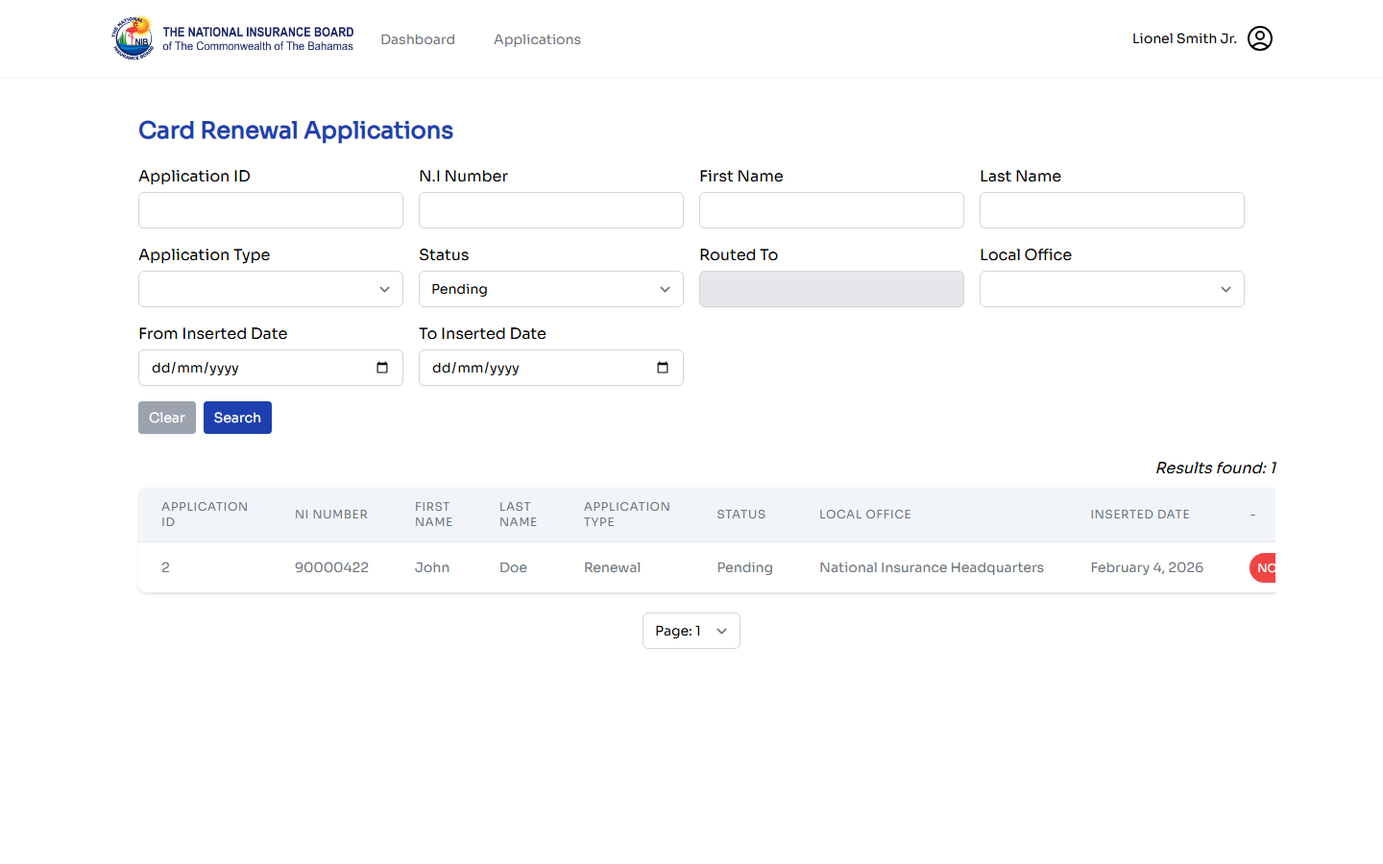
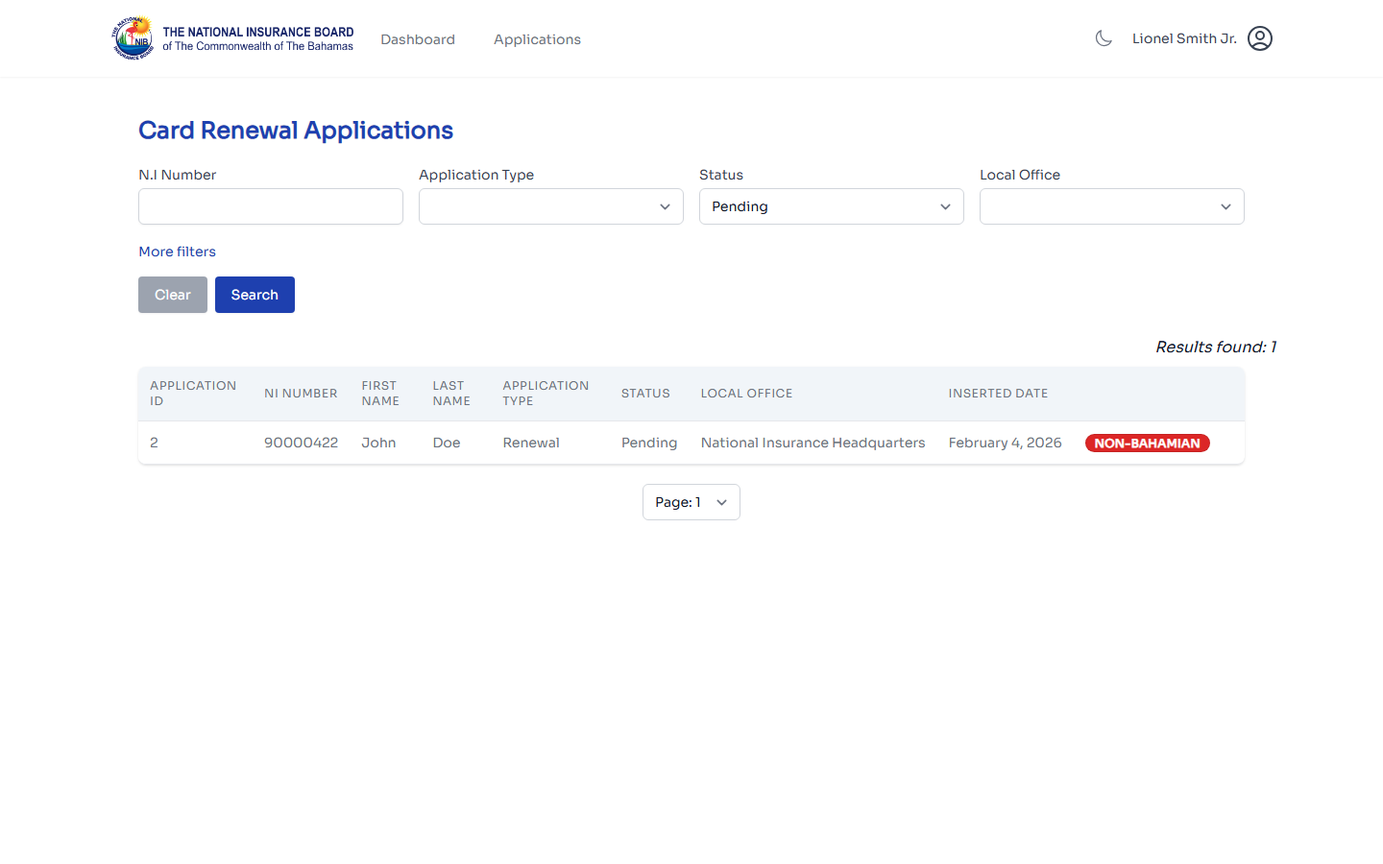
docs(onboarding): correct admin/supervisor manuals + refresh screenshots
Fixes verified against live code: claims status-filter values (Pending/
Approved/Denied only), the real reupload-reason list (no free-text Other),
MED 1 / MED 2 form mapping (was mislabeled 'B81'), SUPERVISOR CS reassign
rights, native confirm() dialogs, and documents the new read-only Payment
card. Strips dev jargon (Oracle table/WeasyPrint/composable names) and
speculative 'coming soon' policy. Refreshes admin walkthrough screenshots
(now include the Payment card). Adds the documentation sweep report.

diff --git a/onboarding/manuals/source/SUPERVISOR-MANUAL.md b/onboarding/manuals/source/SUPERVISOR-MANUAL.md
@@ -29,7 +29,7 @@ This manual covers the supervisor-tier actions on the **Admin Portal** — the w
 - How to **deny** an application with the correct reason
 - How to **reassign** an application from one officer to another
 - How to change the **local office** handling an application
-- How to **generate official forms** (B80, B81, etc.) as PDFs
+- How to **generate official forms** (the MED 1 / MED 2 medical forms and the other benefit forms) as PDFs
 - The complete **role reference** showing which roles can do what
 - How the office-scoping model affects what each role sees
 
@@ -66,10 +66,10 @@ To approve:
 
 1. Open the application detail page from the queue
 2. Confirm the **Routed To** field shows your name
-3. Review all the claimant's details, documents, and contact information one more time
+3. Review all the claimant's details — including the **Payment** section (how and where the benefit will be paid) — plus the documents and contact information one more time
 4. Click the **Approve** button (top right of the detail page)
-5. A confirmation dialog appears asking you to verify the action
-6. Click **Confirm Approval**
+5. A browser confirmation prompt appears ("Are you sure you want to approve this application?")
+6. Click **OK** to confirm
 
 What happens next:
 
@@ -98,9 +98,10 @@ To deny:
 1. Open the application detail page
 2. Confirm Routed To = your name
 3. Click **Deny** (next to the Approve button)
-4. A dialog appears with a **denial reason** dropdown — choose the appropriate reason
-5. Optionally add free-text notes
-6. Click **Confirm Denial**
+4. A menu of **denial reasons** (loaded from the system) appears — click the appropriate reason
+5. A browser confirmation prompt then appears — click **OK** to confirm
+
+> The claims deny flow has no separate free-text notes field; the reason you pick from the menu is what's recorded in the audit log and emailed to the citizen.
 
 What happens next:
 
@@ -111,7 +112,7 @@ What happens next:
 
 ### Denial reasons
 
-Common reasons (the exact list may vary by application type):
+The actual reasons are loaded from the system and vary by application type; you pick one from the menu. Typical examples:
 
 | Reason | When to use |
 |---|---|
@@ -120,14 +121,8 @@ Common reasons (the exact list may vary by application type):
 | Missing or invalid documents | Required documents are still missing or fundamentally wrong (after re-upload attempts) |
 | Duplicate application | This citizen has already submitted (and possibly received) the same benefit |
 | Not currently employed | (Unemployment) Claimant doesn't appear to have ceased employment |
-| Self-employed | (Some benefits) — *as of 2026-Q2, self-employed claimants are soft-denied with instructions to visit their local office for in-person processing. See §3.1.* |
-| Other (with notes) | Specific to the case; explain in the notes field |
-
-### 3.1 Self-employed soft-denial (planned policy)
-
-> **Coming soon (target: mid-2026):** Self-employed claimants will be flagged automatically and shown a special soft-denial message asking them to visit their local NIB office for in-person processing. Until the automation is in place, deny manually with the "Self-employed" reason and add a note pointing them to their local office.
-
-This is being implemented as part of OHSU-led policy alignment. Watch for an internal announcement.
+| Self-employed | (Some benefits) — self-employed claimants may require in-person processing at their local office; confirm current policy with NIB Customer Service before denying on this basis |
+| Other | A reason specific to the case |
 
 ---
 
@@ -153,8 +148,10 @@ What happens:
 If you want to "un-claim" an application (return it to the unrouted pool):
 
 1. Open the application detail page
-2. Click **Remove Assignment** (icon next to the Routed To field)
+2. Click **Remove Assignment** (the icon next to the Routed To field)
 3. Confirm
+
+> The **Remove Assignment** control only appears for **manager-tier (canEdit) roles** and only while the application's status is **Pending**. A non-manager officer who routed an application to themselves will not see it — a department head / manager has to remove the assignment for them.
 
 The application now has no Routed To and any officer in the appropriate scope can claim it via Route To Me.
 
@@ -176,7 +173,7 @@ In practice, that means you can change the local office on a freshly-submitted a
 
 If you find an application that needs to move offices *after* someone has routed it, the workflow is:
 
-1. Ask the current routed-to officer to **Remove Assignment** (un-route it) — or, if you have reassignment rights, do it yourself
+1. A manager-tier (canEdit) user clicks **Remove Assignment** to un-route it (the control isn't available to non-manager officers, so a department head / manager does this)
 2. Once the application is back in the unrouted pool with status Pending, the Local Office dropdown will enable
 3. Choose the correct office and confirm
 4. The application moves to the new office's queue
@@ -198,20 +195,24 @@ Both **claims** and **card** applications have a **Generate Pdf** action on the 
 3. The system automatically produces the appropriate official PDF(s) for that application type — pre-filled with the citizen's submitted data plus reference data from Oracle
 4. The file downloads to your computer
 
-You do **not** choose between B80 / B81 / etc. — the system selects the right form(s) based on the application's type:
+You do **not** choose the form — the system selects the right one based on the application's type:
 
 | Application type | What the PDF contains |
 |---|---|
-| **Unemployment** claim | B80 (Employer's Certificate of Termination) template pre-filled |
-| **Sickness / Maternity** claim | B81 (Medical Certificate) template pre-filled |
-| Other claim types | The form(s) that NIB Customer Service has configured for that benefit type |
+| **Sickness** / **Injury** claim | The **MED 1** form, pre-filled |
+| **Maternity** (and Maternity Extension) claim | The **MED 2** form, pre-filled |
+| **Unemployment** claim | The unemployment benefit form, pre-filled (it references the citizen-uploaded **B80** Employer's Certificate of Termination where applicable) |
+| **Retirement** claim | The retirement claim form, pre-filled |
+| **Funeral** claim | The funeral benefit form, pre-filled |
 | **Card** application | A printable application summary suitable for the registration office workflow |
+
+> **B80 / B81 are citizen *uploads*, not generated forms.** B80 is the Employer's Certificate of Termination and B81 is the Department of Labour Unemployment Card — both are documents the citizen attaches to an unemployment claim. The PDFs *you* generate here are the MED / benefit forms listed above.
 
 You can print, attach, or save the generated PDF as needed.
 
 > **Empty fields are not errors.** If the citizen didn't provide a required field (e.g., "last employer NIB number" on Unemployment), the form displays a fallback like *"See attached B80 — Employer's Certificate of Termination"*. This is per NIB Customer Service policy (Adena Minus, 2026) — the B80 in the uploaded documents already carries that information so we don't ask the citizen to repeat it on the in-app form.
 
-> The PDFs are rendered server-side with WeasyPrint using Jinja2 templates. If a generation fails, take a screenshot and note the application ID — it may be a template or data issue requiring NIB IT to investigate.
+> The PDFs are generated by the system from the application's submitted data. If a generation fails, take a screenshot, note the application ID, and report it to NIB IT — it may be a template or data issue.
 
 ---
 
@@ -219,7 +220,7 @@ You can print, attach, or save the generated PDF as needed.
 
 The admin portal uses **5 role categories** organized by department. **A user can have multiple roles** (e.g., an officer may carry both Cards and Claims roles).
 
-Roles come from the Oracle `dbo.security_role_user` table, **not** from LDAP groups. LDAP only validates the password.
+Your roles are assigned in the admin role directory, **not** from your LDAP groups — LDAP only validates your password.
 
 ### 7.1 The Five Categories
 
@@ -270,7 +271,7 @@ OHSU (Claims — Injury Benefit only):
 | `SUPERVISOR R` | yes | **yes** | no | no | Cards supervisor |
 | `DEPARTMENT HEAD R` | yes | **yes** | no | no | Cards department head |
 | `NON SUPERVISOR CS` | no | no | yes | no | Claims CS officer (read + route, no approve) |
-| `SUPERVISOR CS` | no | no | yes | **no** | Claims supervisor — can route + reassign, NOT approve |
+| `SUPERVISOR CS` | no | no | yes | **no** | Claims supervisor — can route an application to **themselves** only; cannot reassign to others and cannot approve/deny |
 | `DEPARTMENT HEAD CS` | no | no | yes | **yes** | Claims department head — full approve/deny |
 | `NON SUPERVISOR FIU` | yes | no | yes | no | Family Island junior officer — both domains, read+route only |
 | `SUPERVISOR FIU` | yes | no | yes | no | Family Island supervisor — read+route, no approve |
@@ -299,7 +300,7 @@ Your role also determines which offices' applications you can see:
 | Sub Office Manager FIU | Their sub-office only |
 | Registration roles | All Registration offices (cards are centrally processed) |
 
-> A pending policy update from NIB Customer Service (Adena Minus, 2026) is to widen the CS team's visibility so they can process claims from any office regardless of local-office assignment. Watch for the announcement.
+> CS visibility is scoped per the table above. If your team needs wider cross-office visibility, request it from NIB IT through your department head.
 
 ---
 
@@ -342,16 +343,16 @@ When reviewing:
 |---|---|
 | **The Approve button isn't showing** | Either you're not the Routed To officer, OR your role doesn't include approve rights for this application's domain. Cross-check the role matrix in §7.3. |
 | **I approved by mistake** | Contact NIB IT. The action is permanent in the log; the database state may be amendable but not the audit trail. |
-| **The denial reason dropdown is empty** | Refresh the page. If still empty, this is a known SPA bug — contact NIB IT. |
+| **The denial reason dropdown is empty** | Refresh the page. If it's still empty, contact NIB IT. |
 | **Reassign dropdown doesn't show the officer I want** | The officer may not have the appropriate role for this domain, OR they're in a different local office than this application. |
 | **I want to see ALL offices' applications, not just mine** | Your role's office scope (see §7.4) limits visibility. If you should have nationwide access, request a role upgrade through your department head. |
-| **PDF form generation returns an error** | Take a screenshot, note the application ID, and report to NIB IT. WeasyPrint requires the GTK runtime; corrupt or missing data in the citizen's submission can also fail rendering. |
+| **PDF form generation returns an error** | Take a screenshot, note the application ID, and report to NIB IT. Corrupt or missing data in the citizen's submission can also cause a generation to fail. |
 
 ---
 
 ## 11. Need Help?
 
-- **Role assignment requests** (e.g., "I should be able to approve cards but I'm getting Route To Me only"): submit through your department head, who can request changes to the `dbo.security_role_user` Oracle table from NIB IT.
+- **Role assignment requests** (e.g., "I should be able to approve cards but I'm getting Route To Me only"): submit through your department head, who can request changes to your admin role assignment from NIB IT.
 - **Policy questions** (e.g., "Can self-employed claimants apply?"): contact NIB Customer Service leadership or OHSU. Some policies are still being worked out and the portal will be updated to reflect them.
 - **A bug in the admin portal**: report to NIB IT engineering. Include the application ID, your role, your action, and a screenshot if possible.
 - **Compliance / audit questions**: the Activity Log on each application is your starting point. NIB IT can extract activity-log reports across applications if needed for compliance review.

diff --git a/onboarding/manuals/source/ADMIN-MANUAL.md b/onboarding/manuals/source/ADMIN-MANUAL.md
@@ -38,7 +38,7 @@ This manual covers how NIB staff use the **Admin Portal** to review and process 
 - Denying applications (with denial reasons)
 - Re-assigning applications to other officers
 - Changing the local office handling an application
-- Generating official PDF forms (B80, B81, etc.)
+- Generating official PDF forms (the MED 1 / MED 2 medical forms, the unemployment and retirement forms, etc.)
 - Office-wide / department-wide statistics
 
 If you have questions this manual doesn't cover, ask your supervisor or contact NIB IT.
@@ -56,7 +56,7 @@ Open [nibonline-admin.nib-bahamas.com](https://nibonline-admin.nib-bahamas.com) 
 - Your **LDAP username** (the same one you use for other NIB internal systems)
 - Your **LDAP password**
 
-The admin portal authenticates against the corporate LDAP directory. After your password is verified, the system looks up your **roles** from the Oracle `dbo.security_role_user` table to determine what you're allowed to do.
+The admin portal authenticates against the corporate LDAP directory. After your password is verified, the system looks up your assigned **admin roles** to determine what you're allowed to do.
 
 If your LDAP password works but you receive a "no permission" toast on the page, that means your account doesn't yet have an admin role assigned. Ask your department head to request the appropriate role from NIB IT.
 
@@ -109,7 +109,7 @@ If your role gives you access to Cards, click **Online Card Renewals** from the 
 
 ![Card applications queue](images/admin/05-cards-queue.png)
 
-Same filter form, different result columns. Application Type values will be **New**, **Renewal**, or **Replacement**.
+Same filter form, different result columns. Application Type values will be **Renewal** or **Replacement**.
 
 ### 3.3 Using filters
 
@@ -121,7 +121,7 @@ Both queues share the same filter form at the top:
 | **NI Number** | Find all applications from one citizen |
 | **First Name / Last Name** | Search by claimant name |
 | **Application Type** | Limit to one benefit / card type |
-| **Status** | Submitted, In Review, Pending, Approved, Denied, Reupload Requested |
+| **Status** | Pending, Approved, or Denied (these are the only three filter options) |
 | **Routed To** | Filter by which officer owns it (see §4.3 about routing) |
 | **Local Office** | Filter to one office (your access may be limited to your own office) |
 | **From / To Inserted Date** | Date range when the citizen submitted |
@@ -153,11 +153,12 @@ The detail page is organized into sections:
 1. **Header** — claim type and claim number (e.g., "Unemployment Claim #1") with a status badge (e.g., "Pending")
 2. **Routed To** — which officer currently owns this application (or empty if not yet routed)
 3. **Claimant Details** — the citizen's name, NI number, email
-4. **Claim-specific Details** — fields specific to this benefit type (for Unemployment: last working date, employer info, pension status, severance days, vacation days, etc.)
-5. **Application Documents** — uploaded files (passport, B80, etc.) with **Download**, **Upload History**, and additional document-action links (see §4.5)
-6. **Contact Information** — phone numbers and primary contact flag
-7. **Application address Information** — the citizen's mailing/physical address
-8. **Activity Log** — audit trail (scroll to the bottom)
+4. **Payment** — how the benefit is to be paid, shown read-only: the **Payment Method** (Bank Account, Funeral Home, or Local Office) and its supporting details. When the method is a local office, the field is labelled **Payment Collection Office** — the office where the citizen collects payment. This is *not* the same as the processing office shown in the address section; don't confuse the two.
+5. **Claim-specific Details** — fields specific to this benefit type (for Unemployment: last working date, employer info, pension status, severance days, vacation days, etc.)
+6. **Application Documents** — uploaded files (passport, B80, etc.) with **Download**, **Upload History**, and additional document-action links (see §4.5)
+7. **Contact Information** — phone numbers and primary contact flag
+8. **Application address Information** — the citizen's mailing/physical address
+9. **Activity Log** — audit trail (scroll to the bottom)
 
 ### 4.2 Card application detail
 
@@ -166,7 +167,7 @@ The detail page is organized into sections:
 A card detail page has a similar structure with cards-specific sections:
 
 - **Person Information** — full name, NI Number, **Registrant Type** (Bahamian / Non-Bahamian), gender, DOB, country of nationality, marital status
-- **Application Information** — application type (New / Renewal / Replacement), reason for name change (if applicable), Ready for Pickup flag, Local Office
+- **Application Information** — application type (Renewal / Replacement), reason for name change (if applicable), Ready for Pickup flag, Local Office
 - **Non-Bahamian Details** — *(only for non-Bahamian registrants)* permanent-resident flag, resident card number + expiry, work permit number + expiry
 - **Application Documents** — R4, Passport, Work Permit, etc.
 - **Contact Information** and **Address Information**
@@ -206,22 +207,24 @@ If a document is unreadable, blurry, incomplete, expired, or the wrong document 
 Click **Request Reuploads** in the Application Documents header. You'll be prompted to:
 
 1. **Select which document(s)** need a new upload
-2. **Choose a reason** for each — typical reasons include:
-    - Unreadable / blurry
-    - Wrong document type
-    - Document is incomplete
-    - Document is expired
-    - Other (with free-text note)
+2. **Choose a reason** from the fixed list (one reason per request):
+    - Image quality is poor
+    - Bank Client Card / Bank Letter Needed (Paper Card with Bank Account Info and Transient Number)
+    - Claim is not signed
+    - Claim is not stamped by Doctor
+    - Revised dates needed
 3. **Confirm** the request
+
+> A reason is **required** and must be chosen from the list above — there is no free-text "Other" option.
 
 After you confirm:
 
-- The document's status changes to **REUPLOAD_REQUESTED**
+- The document is marked as **awaiting re-upload**
 - The citizen receives an automatic email letting them know
 - The citizen sees a banner / prompt on their portal home and "My Claims" / "Card Applications" list the next time they sign in
 - The application's overall status reflects that it's waiting on the citizen
 
-When the citizen uploads a replacement, the document status returns to **SUBMITTED**, and you'll see the new file when you next open the application. You can then continue your review.
+When the citizen uploads a replacement, the document returns to its normal submitted state, and you'll see the new file when you next open the application. You can then continue your review.
 
 ---
 
@@ -252,7 +255,7 @@ Use **NI Number** in the queue filter. This is faster than scrolling. If you don
 
 ### Find work you're currently handling
 
-Filter by **Routed To** = your name (your username should appear in the dropdown). This shows your active workload.
+Click the **Routed To** filter field to open the officer picker, then select your name. This shows your active workload.
 
 ### Check what's been recently submitted
 
@@ -273,7 +276,7 @@ Always check the **Activity Log** at the bottom of the detail page before reques
 | **I can see the application but can't approve / deny** | Approve / deny is reserved for supervisor-tier roles. Either escalate to your supervisor, or check the Supervisor Manual to confirm whether your role should have access. |
 | **An expected application isn't showing in the queue** | Clear all filters and re-search. If still missing, the application may be assigned to a different local office (you only see your office by default). Ask your supervisor to widen the search or check Routed-To. |
 | **A document download returns "400: File does not exist"** | Don't ask the citizen to re-upload. Screenshot and report to NIB IT. |
-| **The Routed-To search field doesn't return results** | Known issue at time of writing (admin SPA `useRoutedToSearch`). Use **NI Number** or claimant name search instead. |
+| **I can't find an officer in the Routed-To filter** | The Routed-To filter opens an officer-picker modal — click the field to open it and choose from the list. If you still can't narrow it down, use **NI Number** or claimant-name search instead. |
 | **Filter shortcuts on the queue aren't applying** | Known issue at time of writing. Use the dropdown filters manually. |
 
 ---
@@ -281,7 +284,7 @@ Always check the **Activity Log** at the bottom of the detail page before reques
 ## 8. Need Help?
 
 - **LDAP / sign-in issues:** Contact NIB IT helpdesk.
-- **Role assignment requests** (e.g., "I should be able to approve but the button isn't showing"): submit through your department head, who can have NIB IT update the `dbo.security_role_user` table.
+- **Role assignment requests** (e.g., "I should be able to approve but the button isn't showing"): submit through your department head, who can have NIB IT update your admin role assignment.
 - **A bug in the admin portal:** Report to the engineering team. Include the application ID, your username, and a screenshot if possible.
 - **A specific application's data looks wrong** (e.g., "Why isn't the banking doc showing?"): the engineering team can run database queries to investigate.
 

diff --git a/onboarding/DOC-SWEEP-REPORT-2026-06-08.md b/onboarding/DOC-SWEEP-REPORT-2026-06-08.md
@@ -1,0 +1,84 @@
+# Onboarding Documentation Sweep — Audit Report
+
+**Date:** 2026-06-08 · **Scope:** all 11 prose docs under `development-documentation/onboarding/` · **Method:** per-doc review with claims verified against live code, plus a cross-doc repetition pass (12-agent workflow). **Mode:** findings only — no docs edited.
+
+**Goal context:** these docs are headed for (a) external send-out and (b) embedding in the admin portal SPA as in-app help for NIB admin staff.
+
+---
+
+## Headline
+
+- **0 of 11 docs are send-out ready as-is.** Every one has at least one blocker — most commonly internal/security exposure or a code-contradicting factual error.
+- **2 docs should be cut entirely** as redundant: `05-CITIZEN-GUIDE.md` (≈ duplicate of `USER-MANUAL.md`) and `06-ADMIN-GUIDE.md` (superset duplicating `ADMIN-MANUAL.md` + `SUPERVISOR-MANUAL.md`).
+- **Admin-SPA in-app bundle = `ADMIN-MANUAL` + `SUPERVISOR-MANUAL` only**, and only after an "adapt" pass. Everything else is dev-only or citizen-facing.
+- A **recurring family of factual errors** (benefit types, B80/B81 form naming, card types, admin filter/reason lists) appears across multiple docs — fix once at the canonical source.
+
+## Per-document verdict
+
+| Doc | Audience | Admin-SPA | Send-out | Top issue |
+|---|---|---|---|---|
+| README.md | developer | exclude | ❌ | Stale "three docs" (six exist); internal task refs |
+| 01-EXECUTIVE-OVERVIEW.md | mixed | adapt | ❌ | **Invented benefit types** "Disability"/"Surviving Spouse"; IPs/incident detail |
+| 02-ARCHITECTURE.md | developer | exclude | ❌ | Email job misdescribed (RabbitMQ consumer, not 60s poller); B81 mislabel; unresolved JWT TODO |
+| 03-SERVICES.md | developer | exclude | ❌ | **Security disclosure**: hardcoded-secret notes, named personal Oracle cred, SECURITY_FIXES pointer |
+| 04-DEPLOYMENT.md | developer | exclude | ❌ | **Live Grafana password in plaintext**; prod IPs; unresolved prod-data incident |
+| 05-CITIZEN-GUIDE.md | citizen | exclude | ❌ | Near-duplicate of USER-MANUAL; "Replacement" card type doesn't exist; dev screenshot block |
+| 06-ADMIN-GUIDE.md | admin-staff | adapt | ❌ | Superset duplicate of the two manuals; PII (LDAP user, named colleague); "choose form type" step is fictional |
+| ADMIN-MANUAL.md | admin-staff | **adapt → include** | ❌ | **Status filter values wrong** (UI has only Pending/Approved/Denied); **reupload reason list fabricated**; cites non-existent composable |
+| SUPERVISOR-MANUAL.md | admin-staff | **adapt → include** | ❌ | **Form mapping wrong** (Sickness=MED 1, Maternity=MED 2, not "B81"); **"SUPERVISOR CS can reassign" contradicts code** |
+| USER-MANUAL.md | citizen | exclude (citizen-portal, not admin) | ❌ | **Claims first-time "New Card" online works — it doesn't** (renewal/replacement only) |
+| DESIGN-SYSTEM.md | developer | exclude | ❌ | Wrong file path; "Montserrat" vs config typo "Monsterrat"; brand-asset clearance |
+
+## CRITICAL send-out blockers (security / PII) — fix before ANY distribution
+
+These are not stylistic; they leak credentials, infrastructure, and personal data:
+
+1. **`04-DEPLOYMENT.md` — live Grafana credential in plaintext** (`admin / NibLogs2026!`, appears twice). Redact + rotate.
+2. **Production infrastructure exposure** (04, 03, 02, 01): private IPs (`192.168.100.139`, `172.16.1.139`, `.117`, `.123`, NetScaler VIPs), hostnames, SSH jumphost topology, Sentry org IDs, Oracle schema/SID names.
+3. **Named personal/credential leaks**: `03-SERVICES` references a personal Oracle credential ("lionels@"); `06-ADMIN-GUIDE` names the "LDAP user lionels" test account and a colleague "Adena Minus" with internal policy attribution; `SUPERVISOR-MANUAL` repeats "Adena Minus, 2026".
+4. **Security-posture disclosure**: `03-SERVICES` references hardcoded-secret notes, `verify=False` rationale, and points to `SECURITY_FIXES_REQUIRED.md` (19 open security items).
+5. **Unresolved incidents stated as current**: `04` documents a possible prod-data-integrity issue (staging cards-cleanup job defaulting to prod Oracle) and a 98%-full prod disk — distributing these is risky.
+
+## Recurring factual errors (verified against code) — fix at canonical source
+
+- **Benefit types** (`01`): lists non-existent "Disability Benefit" and "Surviving Spouse Benefit"; omits Injury, Sickness Extension, Maternity Extension. Actual: Unemployment, Sickness (+Ext), Maternity (+Ext), Funeral, Retirement, Injury.
+- **B80 / B81 form naming** (`01`, `02`, `06`, `SUPERVISOR`): B81 is the **Department of Labour Unemployment Card**, NOT a "Medical Certificate". Generated forms are per claim type — `med_1.html` (Sickness/Injury), `med_2.html` (Maternity), `unemployment_benefit.html`, etc. B80/B81 are citizen **uploads**, not admin-generated forms.
+- **Card types** (`05`, `USER-MANUAL`): no first-time "New Card" and no "Replacement" online flow in practice — the system supports **Renewal** (and Replacement in the enum); first-time applicants are routed to the paper R4 form.
+- **Admin claims queue Status filter** (`ADMIN-MANUAL`): UI offers only **Pending / Approved / Denied**, not the 6 listed.
+- **Reupload reason list** (`ADMIN-MANUAL`): the real list is 5 fixed NIB-specific reasons with **no free-text "Other"** — doc invents generic ones.
+- **SUPERVISOR CS reassign** (`SUPERVISOR-MANUAL §7.3`): contradicts code — reassign is gated on the `canEdit`/manager tier; SUPERVISOR CS cannot reassign.
+- **Email background job** (`02 §8`): it's an always-on RabbitMQ consumer, not a 60-second DB poller.
+- **Currency gap (all admin docs):** none mention the new read-only **Payment card**, **MED 2 payment rendering**, or the **NibDetailCard** unification (this sprint's work).
+
+## Repetition → consolidation plan
+
+**Cut 2 documents:**
+- **`05-CITIZEN-GUIDE.md` → merge into `USER-MANUAL.md`** (near-duplicates: same Quick Map, sign-in tree, benefit cards, account pages, status table, FAQ). Keep USER-MANUAL (versioned, has Document Information footer). Fix the shared inaccuracies while porting.
+- **`06-ADMIN-GUIDE.md` → split into `ADMIN-MANUAL.md` + `SUPERVISOR-MANUAL.md`** (06 is a superset of both). Discard 06's inaccurate variants (e.g. "choose the form type").
+
+**Canonical homes for the dev docs (cross-link, don't duplicate):**
+- `03-SERVICES.md` owns: the 20-repo Service Index, Verified Oracle Schema Map, service-to-service URL table, Sentry/Redis coverage, per-background-job detail.
+- `04-DEPLOYMENT.md` owns: server inventory/IP-DNS, image-tag matrix, branch→tag→server flow, Jenkins, config/secrets workflow, monitoring config, operational gotchas catalog.
+- `02-ARCHITECTURE.md` owns: conceptual models (networks, request lifecycles, patterns) — trimmed to summaries that cross-link 03/04.
+- `01-EXECUTIVE-OVERVIEW.md` owns: the single glossary + executive-altitude environment list.
+- `README.md` owns: the reading-order index + the single "Refreshing Screenshots" devops block (pull the Playwright/test-credential blocks out of 05 and 06).
+- `SUPERVISOR-MANUAL.md §7` owns: the single authoritative admin role reference (02 §5.2 and 03 admin-auth keep only "roles sourced from Oracle, not LDAP" and cross-link).
+
+## Admin-SPA in-app help bundle (recommendation)
+
+Surface **only** `ADMIN-MANUAL.md` + `SUPERVISOR-MANUAL.md`, after an "adapt" pass that:
+- fixes the high-severity accuracy errors above,
+- strips dev/internal jargon (Oracle table names, composable names, source file names, bug codes),
+- removes PII and the screenshot-regeneration appendices,
+- adds the new **Payment card** explanation (incl. "Payment Collection Office" vs processing office) and updates the claim-detail section list.
+
+Exclude from the admin SPA: README, 01–04, DESIGN-SYSTEM (dev), and 05/USER-MANUAL (citizen — belongs in the *citizen* portal's help instead).
+
+## Suggested execution order
+
+1. **Security/PII redaction pass** (04, 03, 01, 06) — blocks everything; pair with credential rotation.
+2. **Cut 05 and 06** (merge into USER-MANUAL / the two manuals).
+3. **Fix the recurring factual errors** at canonical source (benefit types, B80/B81, card types, filter/reason lists, SUPERVISOR CS reassign, email job).
+4. **Currency update** — add Payment card / MED 2 payment / NibDetailCard to the admin docs.
+5. **Canonical-home consolidation + cross-links** for the dev docs.
+6. **Adapt the two admin manuals** for in-app embedding; re-verify fixes against live code.
